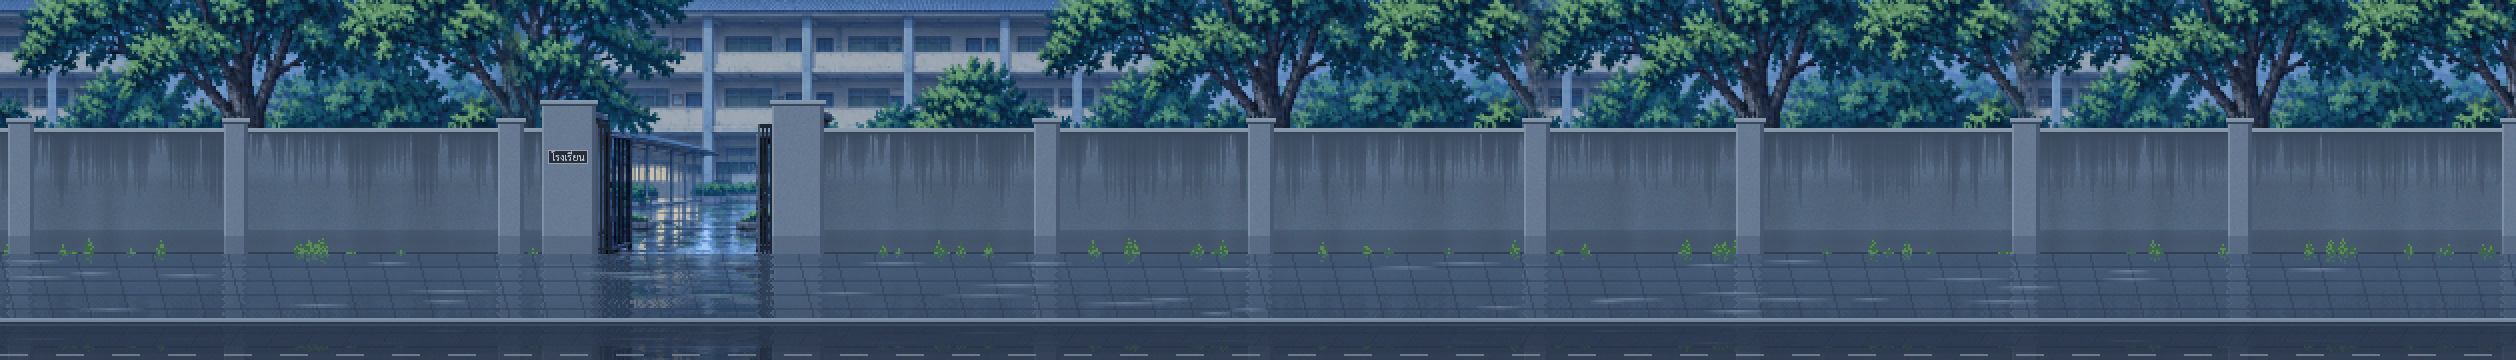
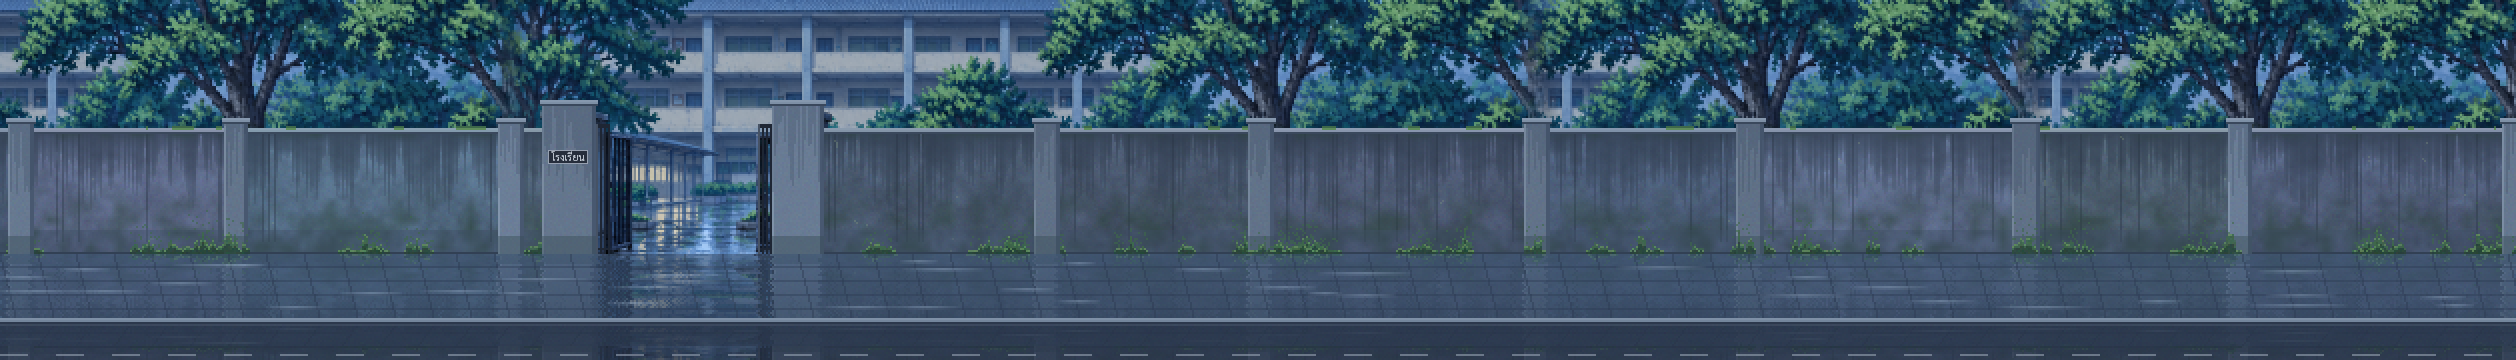
School wall: more stains, algae, moss and colour variation
- each bay between pillars has its own tone and slight tint; blotches at two sizes
- darker drip stains plus a few long streaks; drips on the pillars too
- green-black algae under the coping and over the damp lower wall, pale lichen specks,
  moss on the coping in places
- moss as low ragged cushions at the foot of the wall and pillars, specks creeping up

Claude-Session: https://claude.ai/code/session_01CetL5zkYvFPaRRM6Eyxn95

diff --git a/tools/draw_school_wall.py b/tools/draw_school_wall.py
@@ -37,7 +37,10 @@ COPING_SHADE = np.array((58, 72, 92))
 STREAK = np.array((56, 72, 94))
 BASE = np.array((50, 64, 84))
 MOSS = np.array((62, 104, 74))
-MOSS_LIGHT = np.array((92, 136, 92))
+MOSS_LIGHT = np.array((96, 140, 92))
+MOSS_DARK = np.array((40, 70, 56))
+ALGAE = np.array((46, 70, 62))
+LICHEN = np.array((140, 160, 128))
 PILLAR = np.array((104, 122, 146))
 PILLAR_LIT = np.array((126, 144, 166))
 PILLAR_SHADE = np.array((72, 88, 112))
@@ -63,54 +66,98 @@ def main():
     g0, g1 = (int(round(c / K)) for c in GATE)
     open0, open1 = g0 + 13, g1 - 12                           # the opening between the gate pillars
 
-    # wall panels: concrete, lighter where the rain runs off the coping, darker toward the damp foot,
-    # blotchy (low-frequency noise), dark drip stains hanging from the coping, moss and weeds at the foot
+    # wall panels: concrete, lighter where the rain runs off the coping, darker toward the damp foot.
+    # Each bay between two pillars has its own tone (patched/repainted at different times); blotches at two
+    # sizes, dark drip stains and a few long streaks hanging from the coping, green-black algae under the
+    # coping and over the damp lower part, pale lime spots, moss creeping up from the foot.
     def smooth_noise(n, step):
         knots = rng.random(n // step + 3)
         return np.interp(np.arange(n) / step, np.arange(len(knots)), knots)
+
+    def noise2d(cell):
+        g = rng.random(((base - top) // cell + 2, w // cell + 2))
+        im = Image.fromarray((g * 255).astype(np.uint8)).resize((w + 2 * cell, base - top + 2 * cell), Image.BILINEAR)
+        return np.asarray(im)[cell:cell + base - top, cell:cell + w] / 255.0
+
     rows = np.arange(top, base)
-    blot = np.repeat(smooth_noise(w, 9)[None, :], len(rows), 0) * 0.5 + \
-        np.repeat(smooth_noise(len(rows), 7)[:, None], w, 1) * 0.5
+    n = base - top
+    blot = noise2d(10) * 0.6 + noise2d(3) * 0.4
+    algae = noise2d(7)
+    edges = sorted([c / K for c in PILLARS] + [c / K for c in GATE])
+    bay = np.searchsorted(edges, np.arange(w))
+    tone = 0.86 + rng.random(len(edges) + 1) * 0.24
+    tint = rng.normal(0, 3.5, (len(edges) + 1, 3))
     drip = smooth_noise(w, 4) * 0.6 + rng.random(w) * 0.4                    # stain length per column
+    streak = rng.random(w) < 0.05                                            # long thin streaks
     for x in range(w):
         if open0 <= x < open1:
             continue
-        length = int(drip[x] * (base - top) * 0.75)
+        length = int(drip[x] * n * 0.8)
         for i, y in enumerate(rows):
-            f = i / (base - top)
-            c = WALL * (1.04 - 0.12 * f) + rng.normal(0, 2.0, 3)
-            c = c * (0.86 + 0.18 * blot[i, x])
+            f = i / n
+            c = (WALL * (1.05 - 0.14 * f) + tint[bay[x]]) * tone[bay[x]] + rng.normal(0, 2.2, 3)
+            c = c * (0.8 + 0.32 * blot[i, x])
             if i < length:
-                k = 0.62 * (1 - i / max(length, 1)) ** 0.8 + 0.1
-                c = c * (1 - k) + STREAK * 0.82 * k                          # drip stain
+                k = 0.66 * (1 - i / max(length, 1)) ** 0.8 + 0.1
+                c = c * (1 - k) + STREAK * 0.8 * k                           # drip stain
+            if streak[x] and i < n - 6:
+                c = c * 0.62 + STREAK * 0.7 * 0.38
+            under = max(0.0, 1 - i / 7)                                      # wet band right under the coping
+            low = max(0.0, (f - 0.4) / 0.6)                                  # lower part stays damp
+            a = max(under * 0.8, low) * max(0.0, algae[i, x] - 0.35) * 1.6
+            if a > 0:
+                c = c * (1 - min(a, 0.7)) + ALGAE * min(a, 0.7)              # green-black algae
+            if blot[i, x] > 0.86 and rng.random() < 0.25:
+                c = c * 0.7 + LICHEN * 0.3                                   # pale lime specks
             if y >= base - 12:
-                c = c * 0.5 + WALL_DARK * 0.5 * (0.9 + 0.1 * blot[i, x])
+                c = c * 0.55 + WALL_DARK * 0.45 * (0.85 + 0.2 * blot[i, x])
             out[y, x] = c
-        out[top, x] = COPING + 6
-        out[top + 1, x] = COPING
+        out[top, x] = COPING + 6 + tint[bay[x]]
+        out[top + 1, x] = COPING + tint[bay[x]]
         out[top + 2, x] = COPING_SHADE                        # shadow under the coping
         out[base - 1, x] = BASE
-    for _ in range(int(w * 0.06)):                            # moss and weed clumps at the foot
-        cx = rng.integers(0, w)
-        if open0 - 2 <= cx < open1 + 2:
-            continue
-        tall = rng.integers(2, 9)
-        for x in range(cx - 2, cx + 3):
-            if 0 <= x < w:
-                for y in range(base - max(1, tall - abs(x - cx) * 2), base):
-                    out[y, x] = MOSS_LIGHT if rng.random() < 0.4 else MOSS
+        if algae[0, x] > 0.72:                                # moss on the coping
+            out[top - 1, x] = MOSS
+            out[top, x] = MOSS_LIGHT
+
+    def moss(cx, tall, wide):
+        """A cushion of moss at the foot: low and wide with a ragged top (each column its own height),
+        dark underneath, lighter where it catches the light, a few specks creeping up the damp wall."""
+        heights = smooth_noise(2 * wide + 1, 2) * tall * 0.8 + rng.random(2 * wide + 1) * tall * 0.4
+        for k, x in enumerate(range(cx - wide, cx + wide + 1)):
+            if not 0 <= x < w or open0 - 1 <= x < open1 + 1:
+                continue
+            edge = 1 - (abs(x - cx) / (wide + 1)) ** 2
+            hgt = max(2, int(heights[k] * edge + 1))
+            for j in range(hgt):
+                y = base - 1 - j
+                shade = MOSS_DARK if j < hgt * 0.5 else MOSS
+                if j == hgt - 1 and rng.random() < 0.7:
+                    shade = MOSS_LIGHT
+                out[y, x] = out[y, x] * 0.15 + (shade + rng.normal(0, 4, 3)) * 0.85
+            for j in range(hgt, hgt + int(tall * 1.5)):              # specks creeping up
+                if rng.random() < 0.18 * (1 - (j - hgt) / (tall * 1.5)):
+                    y = base - 1 - j
+                    out[y, x] = out[y, x] * 0.4 + MOSS * 0.6
+
+    for _ in range(int(w * 0.05)):
+        moss(rng.integers(0, w), rng.integers(4, 12), rng.integers(3, 10))
 
     def pillar(cx, half, y0, cap):
         x0, x1 = int(round(cx / K - half)), int(round(cx / K + half))
+        tone_p = 0.92 + rng.random() * 0.12
         for x in range(max(x0, 0), min(x1, w)):
+            stain = int(rng.random() * (base - y0) * 0.6)            # rain running down from the cap
             for y in range(y0, base):
-                c = PILLAR + rng.normal(0, 2.0, 3)
+                c = PILLAR * tone_p + rng.normal(0, 2.0, 3)
                 if x == x0:
-                    c = PILLAR_LIT
+                    c = PILLAR_LIT * tone_p
                 elif x >= x1 - 2:
                     c = PILLAR_SHADE
+                if y - y0 < stain:
+                    c = c * 0.75 + STREAK * 0.25
                 if y >= base - 9:
-                    c = c * 0.6 + WALL_DARK * 0.4
+                    c = c * 0.55 + ALGAE * 0.2 + WALL_DARK * 0.25
                 out[y, x] = c
         for x in range(max(x0 - cap, 0), min(x1 + cap, w)):  # cap
             out[y0 - 2, x] = PILLAR_LIT + 8
@@ -120,6 +167,8 @@ def main():
 
     for cx in PILLARS:
         pillar(cx, 6.5, top - 3, 1)
+        if rng.random() < 0.6:
+            moss(int(round(cx / K)) + rng.integers(-5, 6), rng.integers(5, 13), rng.integers(4, 9))
     lx = pillar(GATE[0], 13.5, GATE_TOP // K, 1)
     rx = pillar(GATE[1], 12.5, GATE_TOP // K, 1)
 

diff --git a/README.md b/README.md
@@ -66,7 +66,7 @@
    - ฉากหลัง `tools/compose_school.py art_source/school_front_rain.png assets/bg/school/school_front.png` (ภาพจากผู้เขียน):
      กลับซ้ายขวาให้ประตูอยู่ทางซ้าย ต่อกำแพง 2 ช่วงเสา (รอยต่อกลางเสา ต้นไม้เฟดผสม) ป้าย "โรงเรียน" พลิกกลับให้อ่านได้
      ย่อ 0.5525 ให้กำแพงสูงราวตัวซัน ตัดแถวบน 30 ให้ทางเท้าอยู่ใต้เท้า ประตูที่ x 593-774 ชั้นฉากถนนซ่อนทั้งหมด
-     แล้ว `tools/draw_school_wall.py assets/bg/school/school_front.png assets/bg/school/school_front.png` วาดกำแพง เสา
+     แล้ว `tools/draw_school_wall.py assets/bg/school/school_front.png assets/bg/school/school_front.png` วาดกำแพง (สีต่างกันทีละช่วงเสา คราบน้ำ ตะไคร่ดำเขียว จุดไลเคน กอตะไคร่ที่โคน) เสา
      ประตู (ป้าย "โรงเรียน" ฟอนต์ Sarabun) ทางเท้าเปียกที่สะท้อนกำแพง ขอบฟุตบาท และถนนใหม่เป็นพิกเซล 2x2 ทับ
      (จากภาพเก็บไว้แค่ต้นไม้ อาคาร และในประตู)
    - ทดสอบ: เปิดเกมด้วย `#school` ท้ายลิงก์ เริ่มที่ช่วงนี้เลย (`#cross` เริ่มที่ข้ามทางม้าลายแล้วต่อมาที่นี่)
